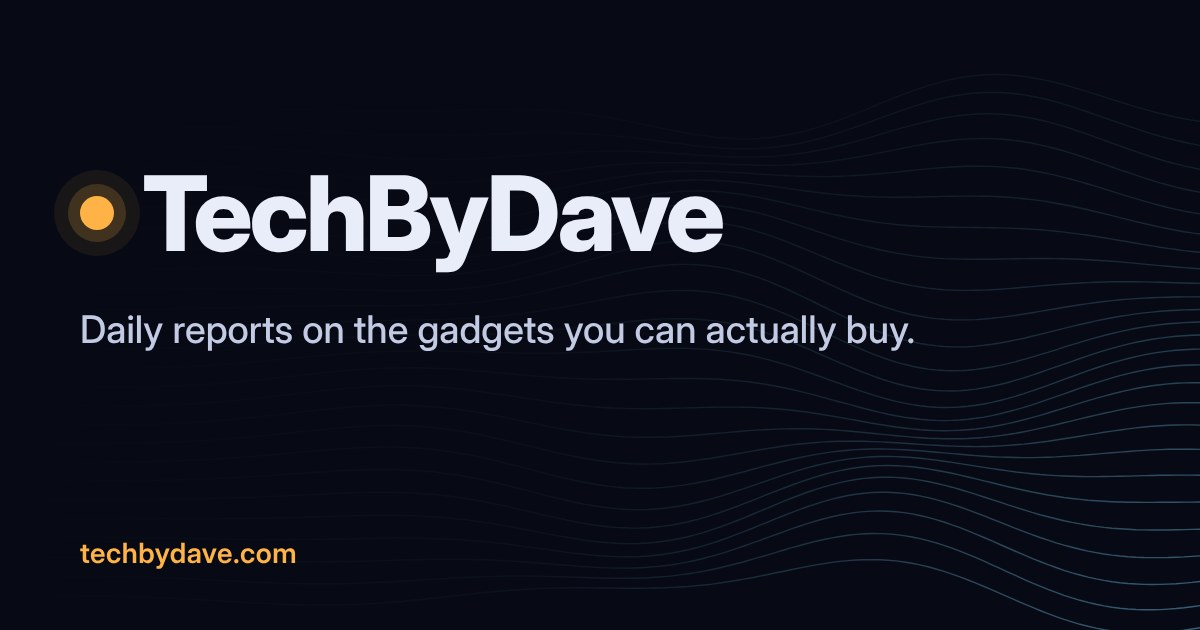
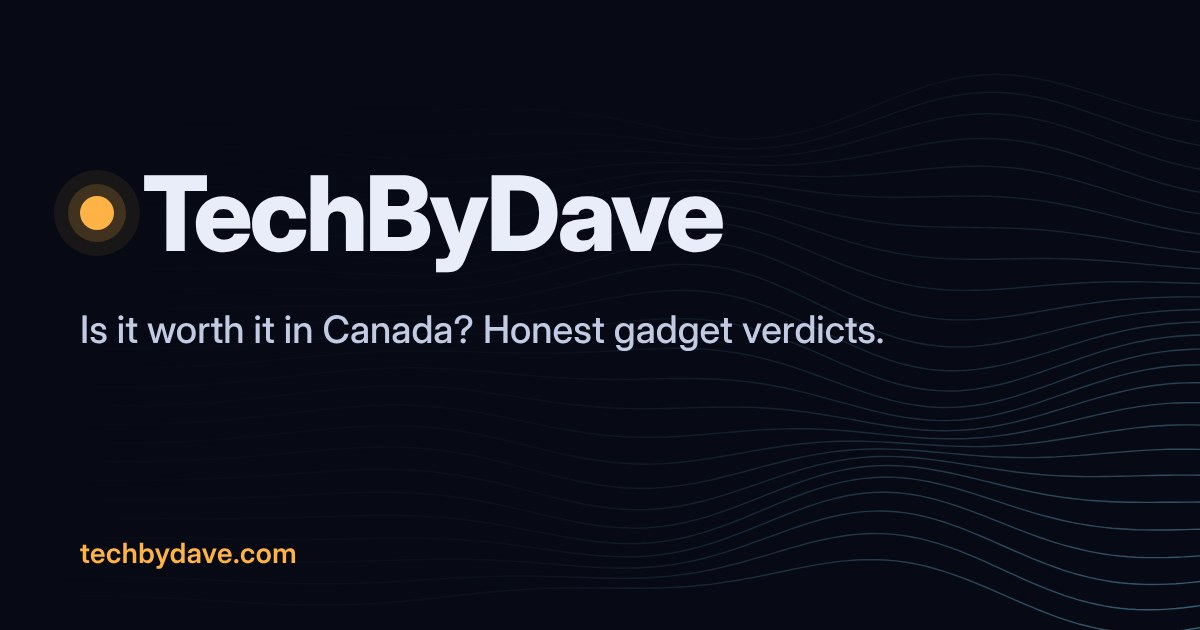
Niche: 'Is it worth it in Canada?'
- Homepage tagline line, homepage title/description, RSS tagline, share image
- About, editorial policy and media kit describe the Canadian-buyer angle
- Generator: verdict for Canadian readers, CAD price/availability only when a
  source confirms it (no self-converted prices), third search for Canadian pricing

Claude-Session: https://claude.ai/code/session_01KJuzGHydJWmHAVfQ5eUbnP

Changed region(s): [[0.0617, 0.4825, 0.7708, 0.573]]

diff --git a/build.py b/build.py
@@ -38,7 +38,7 @@ from datetime import datetime, timedelta, timezone
 from zoneinfo import ZoneInfo
 
 SITE_TITLE = "TechByDave"
-SITE_TAGLINE = "field notes on Tech"
+SITE_TAGLINE = "Is it worth it in Canada? Honest gadget verdicts."
 SITE_URL = "https://techbydave.com/"  # replace with your real domain
 
 # Cloudflare Web Analytics — free, no cookie banner needed, one script
@@ -71,7 +71,7 @@ DEFAULT_PUBLISH_HOUR = 9
 NEWS_SITEMAP_HOURS = 48  # Google News sitemaps should only list the last 2 days
 
 # One line under the big homepage headline.
-HERO_SUBLINE = "Daily reports on the gadgets you can actually buy."
+HERO_SUBLINE = "Is it worth it in Canada? Honest verdicts on the gadgets you can actually buy."
 
 # Homepage layout: 1 big lead story, then SIDE_COUNT stories in the 2x2 grid
 # beside it, then MORE_COUNT stories in the "More stories" grid. Anything
@@ -612,6 +612,7 @@ main.home{padding-top:2.5rem}
 .story-lead p.dek{margin-top:.9rem;color:var(--ink-soft);font-size:1.12rem;max-width:52ch}
 .story-card h3{font-size:clamp(1.05rem,1.7vw,1.3rem);line-height:1.18;margin-top:.9rem}
 
+.hero-tag{font:600 .95rem/1.4 var(--display);color:var(--ink-soft);margin:0 0 1.2rem;letter-spacing:.01em}.hero-tag::before{content:"";display:inline-block;width:8px;height:8px;border-radius:50%;background:var(--beacon);margin-right:.6em;vertical-align:.1em}
 .sec-title{font:800 1.7rem/1 var(--display);letter-spacing:-.03em;text-align:center;margin:4rem 0 1.8rem}
 .more{display:grid;grid-template-columns:repeat(3,1fr);gap:2.2rem 1.6rem}
 .more .story-card h3{font-size:1.25rem}
@@ -955,11 +956,11 @@ INLINE_SIGNUP_HTML = """
 # Static page copy
 # ---------------------------------------------------------------------------
 
-ABOUT_MARKDOWN = f"""{SITE_TITLE} is a consumer tech blog covering phones, laptops, wearables, headphones, smart home gear, gaming hardware, and cameras: new launches, price changes, spec comparisons, and buying advice, with a clear point of view.
+ABOUT_MARKDOWN = f"""{SITE_TITLE} answers one question about every new gadget: **is it worth it in Canada?** We cover phones, laptops, wearables, headphones, smart home gear, gaming hardware and cameras, with Canadian prices and availability where they're known, and an honest verdict on whether to buy, wait or skip.
 
 ## Hi, I'm {AUTHOR_NAME}
 
-I'm the founder of {SITE_TITLE}. I started this site because I love tech, and I wanted a place that tells people what actually matters about a new gadget: what it costs, what changed, and whether it's worth their money. Tech moves fast, and it's easy to get lost in hype, spec sheets and marketing. My job is to cut through that and give you a straight answer.
+I'm the founder of {SITE_TITLE}, based in Toronto. I started this site because I love tech, and I wanted a place that tells people what actually matters about a new gadget: what it costs, what changed, and whether it's worth their money. Tech moves fast, and it's easy to get lost in hype, spec sheets and marketing. My job is to cut through that and give you a straight answer.
 
 ## What I do
 
@@ -1021,7 +1022,7 @@ EDITORIAL_MARKDOWN = f"""This page explains how {SITE_TITLE} decides what to cov
 
 ## What we cover
 
-Consumer tech people actually buy: phones, laptops, wearables, headphones, smart home gear, gaming hardware, and cameras. We focus on launches, notable price changes, spec comparisons, and buying advice.
+Consumer tech people actually buy: phones, laptops, wearables, headphones, smart home gear, gaming hardware, and cameras. We focus on launches, notable price changes, spec comparisons, and buying advice, written for Canadian buyers. Where sources confirm them, we include Canadian prices and availability; when they aren't confirmed yet, we say so.
 
 ## How stories are chosen
 
@@ -1056,7 +1057,7 @@ Brands and PR teams: see our [media kit](media-kit.html) for reviews, launch cov
 
 You can also find {SITE_TITLE} on social media through the links in the footer. For how we choose and write our stories, see the [editorial policy](editorial-policy.html)."""
 
-MEDIA_KIT_MARKDOWN = f"""{SITE_TITLE} is an independent consumer tech publication run by {AUTHOR_NAME} out of Toronto, Canada. We cover the gadgets people actually buy: phones, laptops, wearables, headphones, smart home gear, gaming hardware, cameras and everyday-carry tech.
+MEDIA_KIT_MARKDOWN = f"""{SITE_TITLE} is an independent consumer tech publication run by {AUTHOR_NAME} out of Toronto, Canada. Our angle is simple: is it worth it in Canada? We cover the gadgets people actually buy: phones, laptops, wearables, headphones, smart home gear, gaming hardware, cameras and everyday-carry tech.
 
 ## Who reads {SITE_TITLE}
 
@@ -1432,6 +1433,7 @@ def render_hero(posts):
   <canvas id="ridge" aria-hidden="true"></canvas>
   <div class="wrap in">
     <h1 class="sr-only">{html.escape(SITE_TITLE)}</h1>
+    <p class="hero-tag">{html.escape(HERO_SUBLINE)}</p>
     {render_top(posts)}
   </div>
 </section>
@@ -1671,10 +1673,10 @@ def build():
         ],
     }, ensure_ascii=False).replace("</", "<\\/")
     index = render_page(
-        title=f"{SITE_TITLE} | Consumer Tech News, Reviews &amp; Deals",
+        title=f"{SITE_TITLE} | Is It Worth It in Canada? Tech News &amp; Reviews",
         head_extra=f'<script type="application/ld+json">{site_schema}</script>',
-        description=html.escape(f"{SITE_TITLE} covers new phones, laptops, earbuds, wearables and smart home gear: "
-                                f"launches, price drops and honest buying advice, published daily."),
+        description=html.escape(f"{SITE_TITLE} gives Canadian buyers honest verdicts on new phones, laptops, earbuds, "
+                                f"wearables and smart home gear: Canadian prices, availability and whether it's worth it."),
         canonical=base + "/",
         body=render_home_body(posts),
         hero=render_hero(posts),

diff --git a/scripts/generate_posts.py b/scripts/generate_posts.py
@@ -38,9 +38,9 @@ TIMEZONE = "America/Toronto"
 # Sonnet writes more naturally than Haiku but costs more per post.
 # To go back to the cheaper model, use "claude-haiku-4-5-20251001".
 MODEL = "claude-sonnet-5-5"
-MAX_SEARCHES = 2  # 1 to see what's trending, 1 to confirm the story's facts.
+MAX_SEARCHES = 3  # trending, the story's facts, then Canadian price and availability.
                   # Each search costs about $0.01 plus its result tokens.
-TAGLINE = "field notes on Tech"
+TAGLINE = "Is it worth it in Canada? Honest gadget verdicts."
 
 # OPTIONAL: paste one of your best posts here (about 200-300 words, plain text).
 # The model will match its rhythm and attitude. Leave it empty ("") to skip.
@@ -192,7 +192,15 @@ a three-item list in every paragraph, heavy em-dash use, "dive into",
 wrap-up paragraph that repeats the post. End on something practical, like what
 to do or what to watch for.
 
-{style_block}Beat: CONSUMER TECH AND GADGETS people actually buy: phones, laptops,
+{style_block}Angle: every post answers "is it worth it in Canada?" for a Canadian
+reader. Give a clear verdict (buy, wait, or skip, and for whom). Include the
+Canadian price (CAD) and Canadian availability or release date when a source
+confirms them; if they aren't confirmed, say so plainly. Never convert US
+prices to CAD yourself and present them as Canadian prices. Prefer products
+Canadians can actually buy, and mention Canadian retailers or carriers when a
+source names them.
+
+Beat: CONSUMER TECH AND GADGETS people actually buy: phones, laptops,
 wearables, headphones, smart home, gaming hardware, cameras. Good topics are
 new launches, notable price drops or deals, spec comparisons, and buying
 advice. Avoid enterprise software, corporate finance, and research-paper
@@ -203,6 +211,8 @@ You have {MAX_SEARCHES} web searches in total:
    query such as "trending gadget tech news today").
 2. Spend the second on the exact facts (model name, price, specs, dates) of
    the ONE story you pick that has not been covered yet.
+3. Spend the third on the product's Canadian price and availability (for
+   example "<product> price Canada").
 Do not search again after that.
 
 {avoid_block}Write one post:
